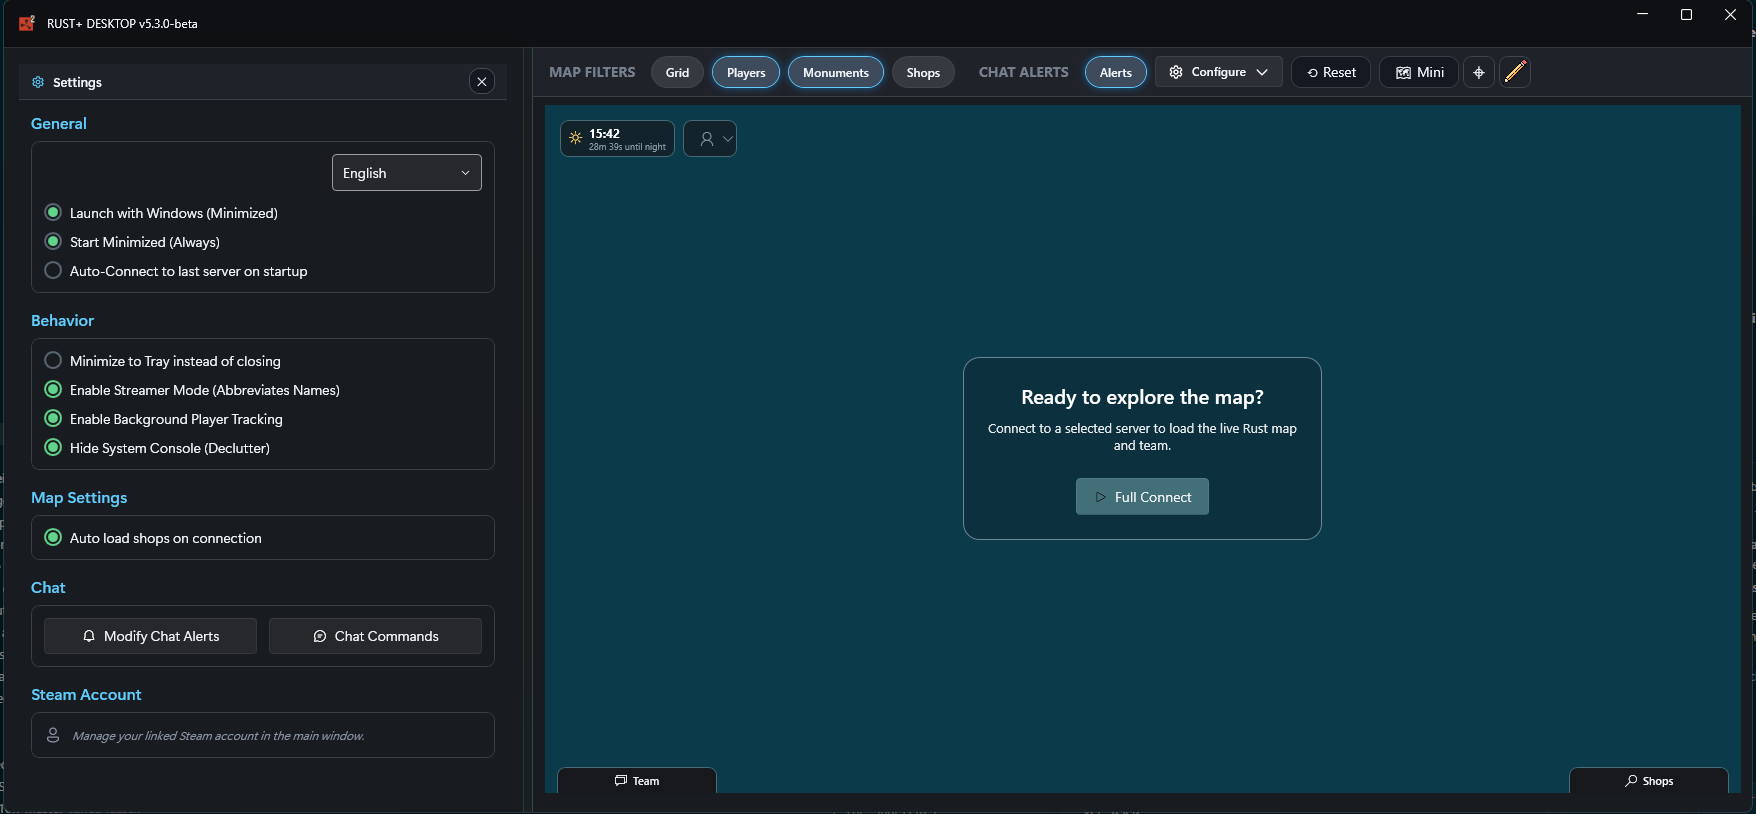
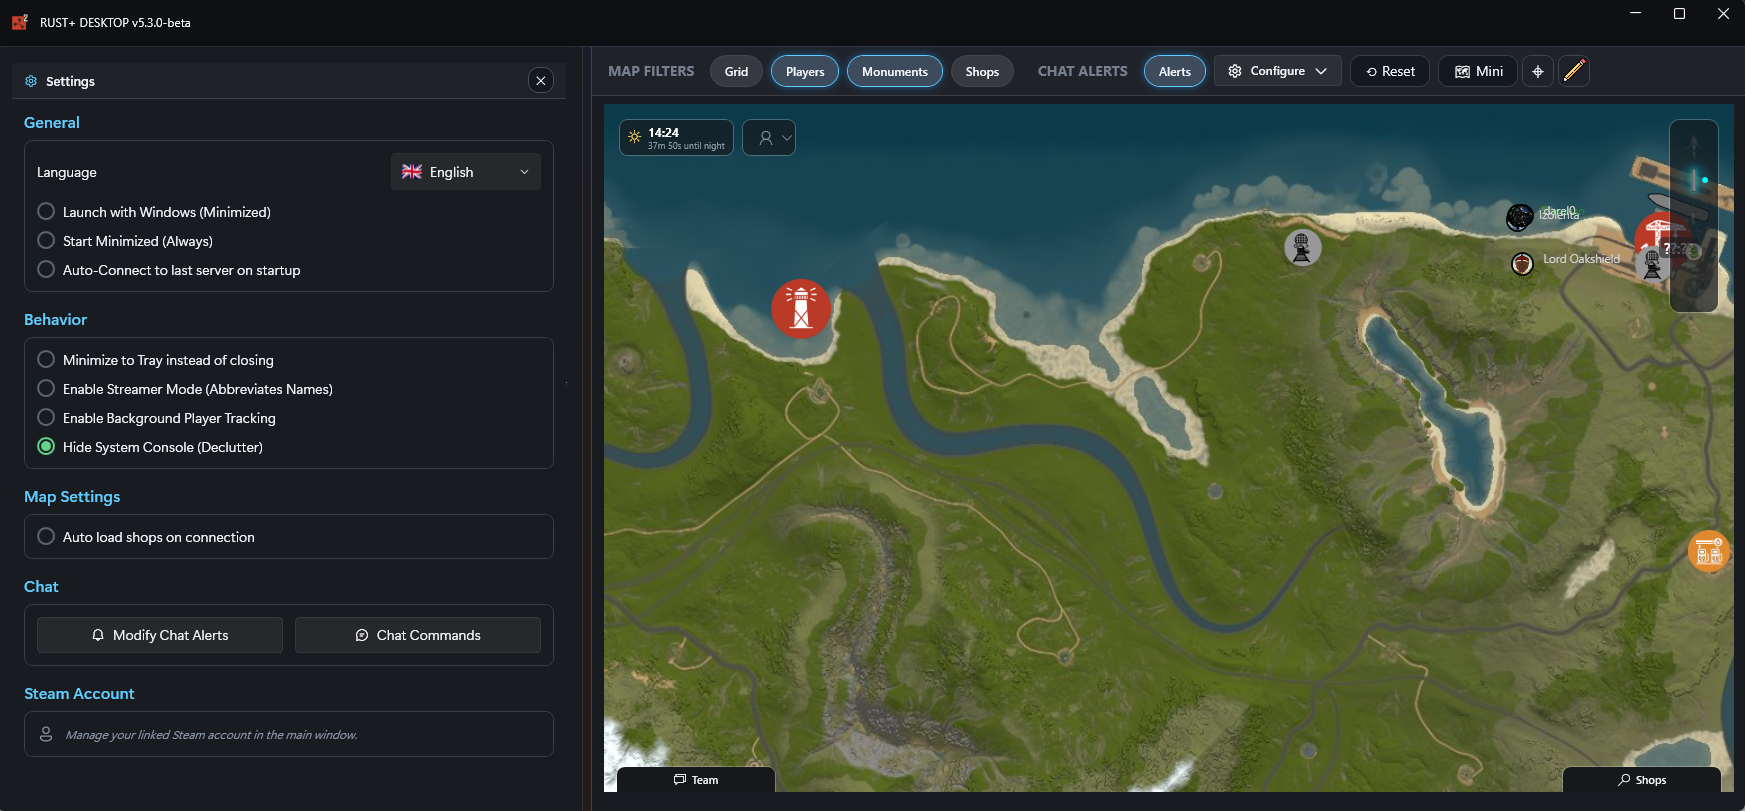
new Screenshots with flags for Patch Notes etc.

diff --git a/RustPlusDesktop/Views/MainWindow/Map/AppSettingsOverlay.xaml b/RustPlusDesktop/Views/MainWindow/Map/AppSettingsOverlay.xaml
@@ -43,6 +43,18 @@
                                 <ComboBox.ItemTemplate>
                                     <DataTemplate>
                                         <StackPanel Orientation="Horizontal" VerticalAlignment="Center">
+                                            <ui:SymbolIcon Symbol="Settings24" Width="20" Height="15" Margin="0,0,8,0" FontSize="14" Foreground="{DynamicResource TextSubtle}">
+                                                <ui:SymbolIcon.Style>
+                                                    <Style TargetType="ui:SymbolIcon">
+                                                        <Setter Property="Visibility" Value="Collapsed" />
+                                                        <Style.Triggers>
+                                                            <DataTrigger Binding="{Binding ImagePath}" Value="{x:Null}">
+                                                                <Setter Property="Visibility" Value="Visible" />
+                                                            </DataTrigger>
+                                                        </Style.Triggers>
+                                                    </Style>
+                                                </ui:SymbolIcon.Style>
+                                            </ui:SymbolIcon>
                                             <Image Source="{Binding ImagePath}" Width="20" Height="15" Margin="0,0,8,0" Stretch="UniformToFill" RenderOptions.BitmapScalingMode="HighQuality">
                                                 <Image.Style>
                                                     <Style TargetType="Image">

diff --git a/RustPlusDesktop/Views/MainWindow/Map/AppSettingsOverlay.xaml.cs b/RustPlusDesktop/Views/MainWindow/Map/AppSettingsOverlay.xaml.cs
@@ -79,7 +79,7 @@ namespace RustPlusDesk.Views
                 new() { Name = "繁體中文 (Hant)", Code = "zh-Hant", ImagePath = "pack://application:,,,/Assets/Flags/zh-Hant.png" }
             };
 
-            CmbLanguage.ItemsSource = langs.OrderBy(l => l.Name).ToList();
+            CmbLanguage.ItemsSource = langs.OrderBy(l => l.Code == "" ? 1 : 0).ThenBy(l => l.Name).ToList();
         }
 
         public void LoadSettings()